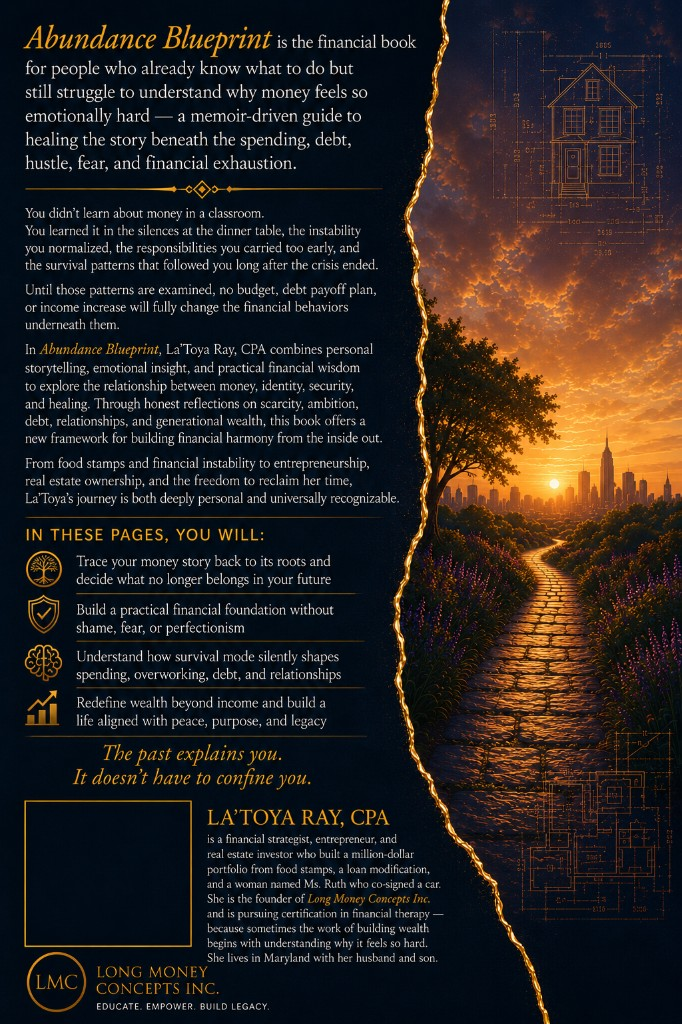
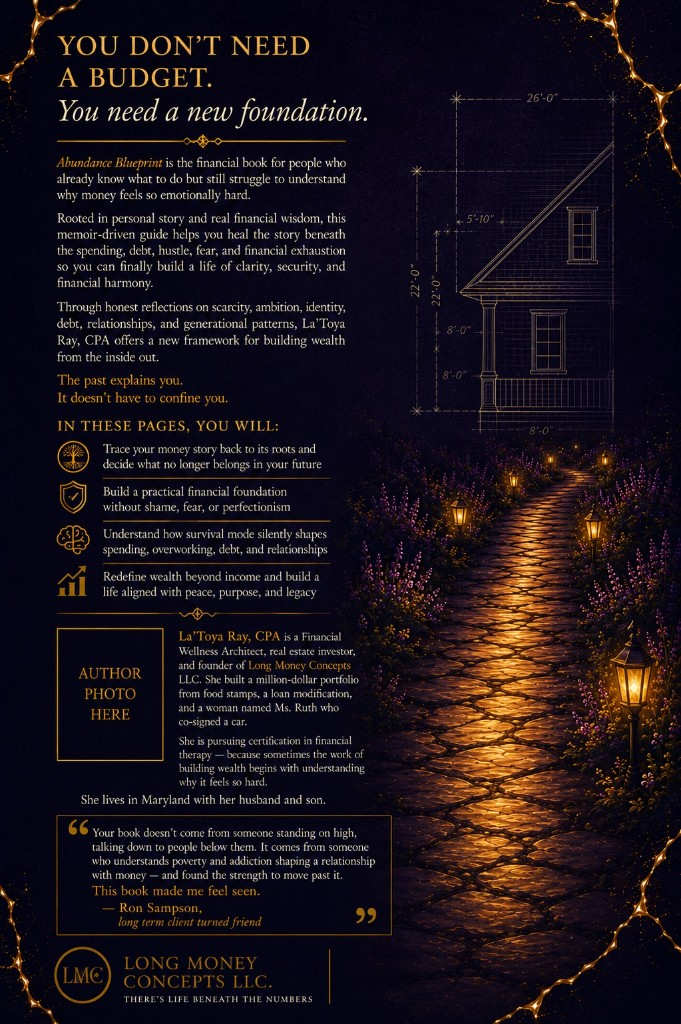
Update book covers and rename the publisher to Long Money Concepts LLC.

diff --git a/artifacts/abundance-blueprint/src/pages/About.tsx b/artifacts/abundance-blueprint/src/pages/About.tsx
@@ -46,7 +46,7 @@ export default function About() {
                   Raised between instability and resilience, La'Toya learned early how financial hardship impacts not only households, but nervous systems, relationships, self-worth, and future decisions. Long before she became a CPA, she became the responsible one — the observer, the problem-solver, the stabilizer. Those lived experiences became the foundation of her life's work: helping people untangle the emotional roots of their financial patterns while building practical strategies for long-term stability and peace.
                 </motion.p>
                 <motion.p variants={fadeInUp}>
-                  She built a million-dollar real estate portfolio from food stamps, a loan modification, and a woman named Ms. Ruth who co-signed a car. She is the founder of Long Money Concepts Inc. and is pursuing certification in financial therapy — because sometimes the work of building wealth begins with understanding why it feels so hard. She lives in Maryland with her husband and son.
+                  She built a million-dollar real estate portfolio from food stamps, a loan modification, and a woman named Ms. Ruth who co-signed a car. She is the founder of Long Money Concepts LLC and is pursuing certification in financial therapy — because sometimes the work of building wealth begins with understanding why it feels so hard. She lives in Maryland with her husband and son.
                 </motion.p>
               </div>
             </motion.div>

diff --git a/artifacts/abundance-blueprint/src/components/layout/Footer.tsx b/artifacts/abundance-blueprint/src/components/layout/Footer.tsx
@@ -9,7 +9,7 @@ export function Footer() {
       <div className="container mx-auto px-4 md:px-6">
         <div className="grid grid-cols-1 md:grid-cols-2 lg:grid-cols-4 gap-12 mb-16">
           <div className="lg:col-span-2">
-            <h4 className="font-serif text-2xl mb-4 text-accent">Long Money Concepts Inc.</h4>
+            <h4 className="font-serif text-2xl mb-4 text-accent">Long Money Concepts LLC</h4>
             <p className="text-background/70 mb-6 max-w-sm leading-relaxed">
               Educate. Empower. Build Legacy.
             </p>
@@ -46,7 +46,7 @@ export function Footer() {
         </div>
         
         <div className="pt-8 border-t border-background/10 flex flex-col md:flex-row justify-between items-center gap-4 text-sm text-background/40">
-          <p>© {new Date().getFullYear()} Long Money Concepts, Inc. All rights reserved.</p>
+          <p>© {new Date().getFullYear()} Long Money Concepts LLC. All rights reserved.</p>
           <div className="flex gap-4">
             <Link href="/privacy" className="hover:text-background transition-colors">Privacy Policy</Link>
             <Link href="/terms" className="hover:text-background transition-colors">Terms of Service</Link>

diff --git a/artifacts/abundance-blueprint/src/pages/Contact.tsx b/artifacts/abundance-blueprint/src/pages/Contact.tsx
@@ -79,7 +79,7 @@ export default function Contact() {
                   
                   <div>
                     <h3 className="font-sans font-medium text-sm tracking-widest uppercase mb-2 text-primary">Publisher</h3>
-                    <p className="text-muted text-lg">Long Money Concepts Inc.</p>
+                    <p className="text-muted text-lg">Long Money Concepts LLC</p>
                     <p className="text-muted/70 italic mt-1">"Educate. Empower. Build Legacy."</p>
                   </div>
                 </div>
